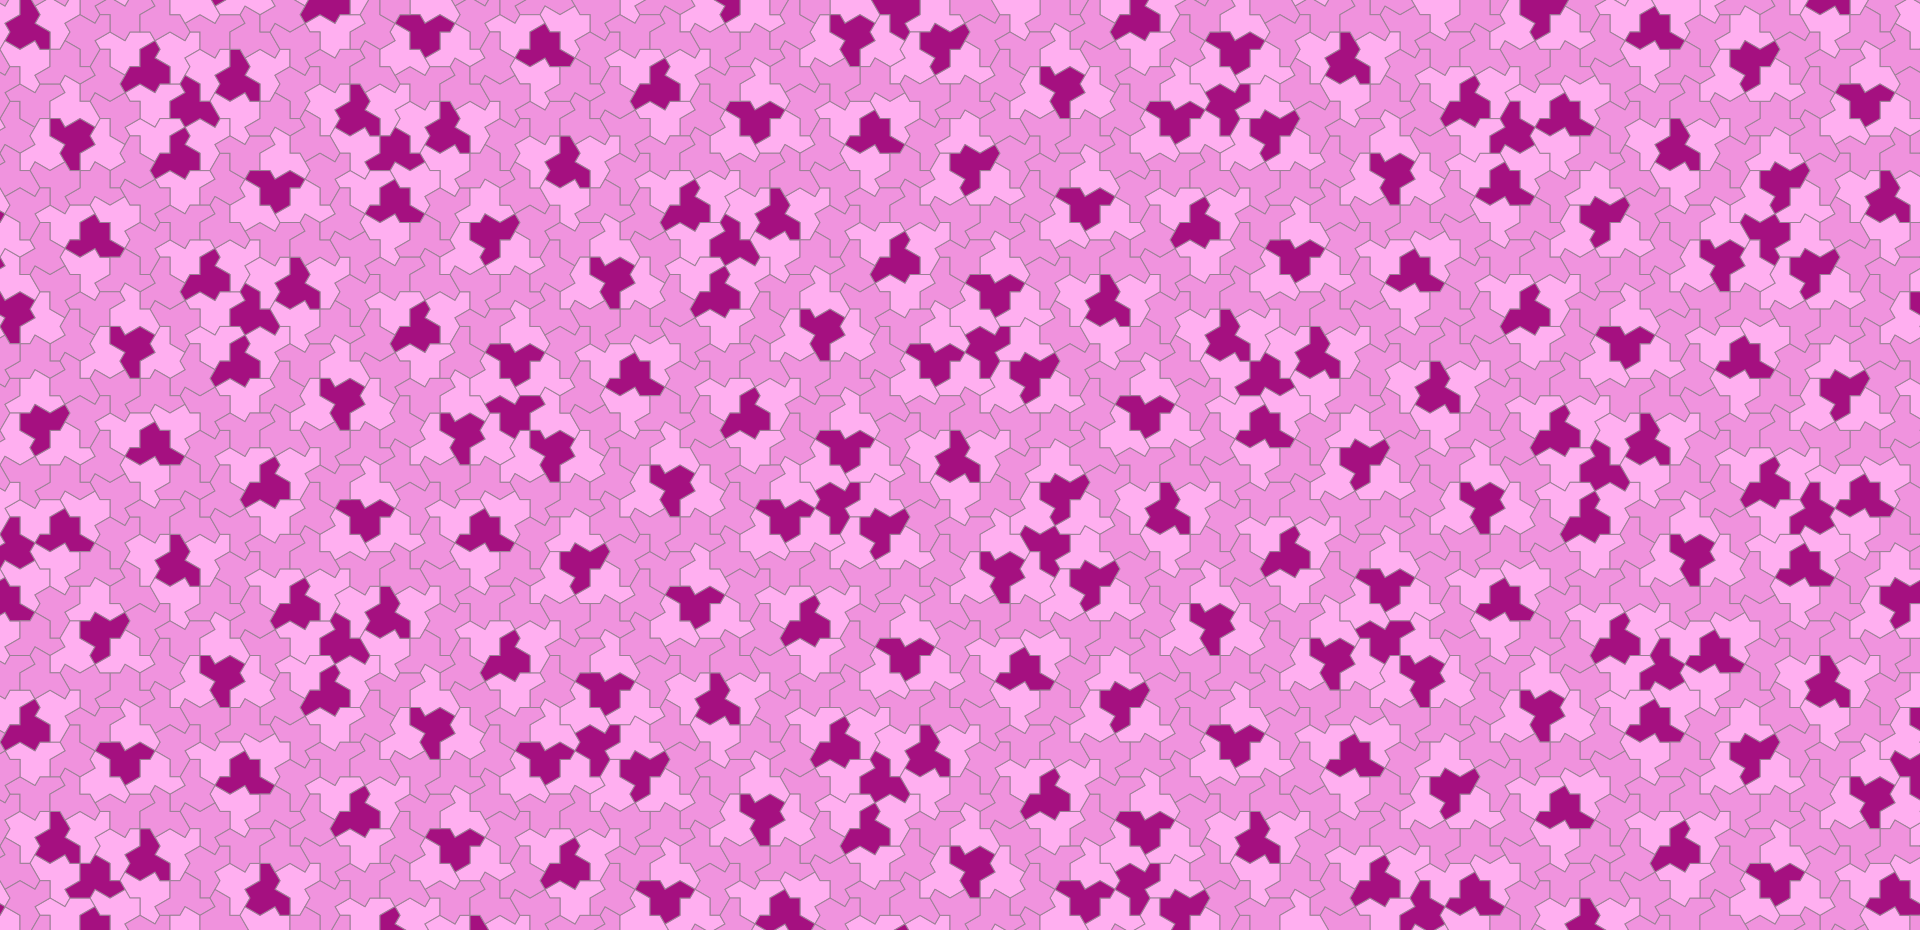
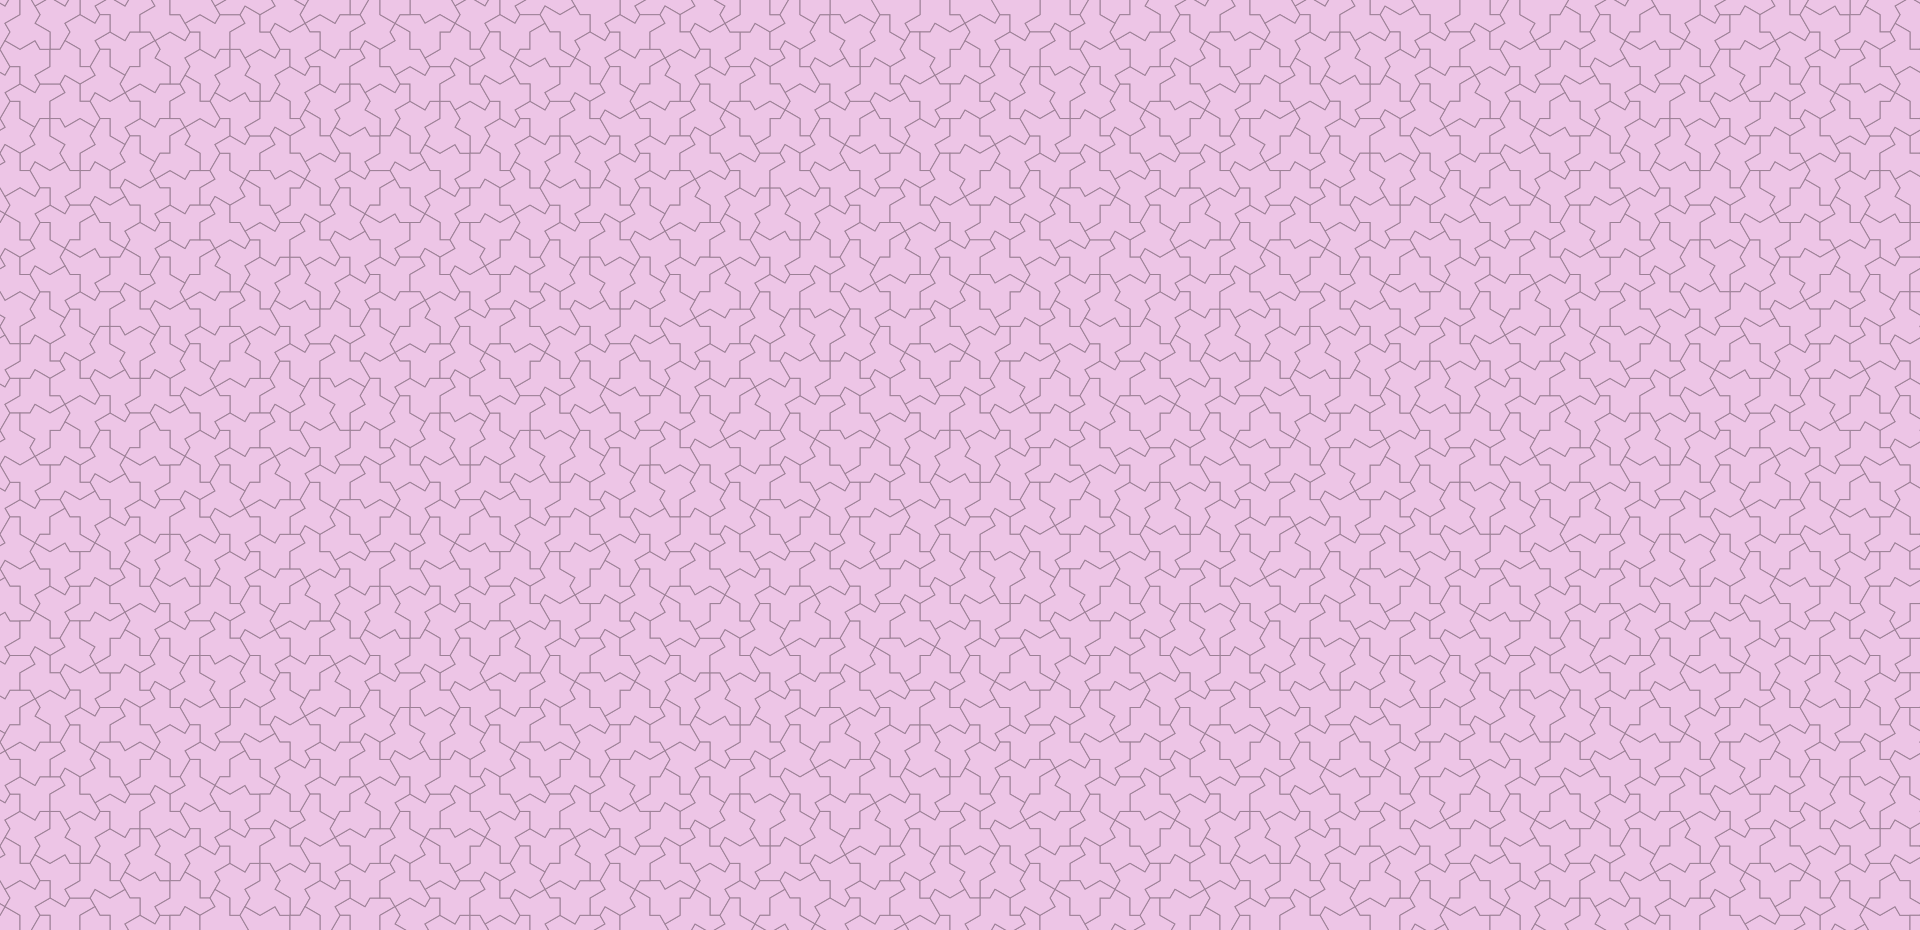
link to unicorns

diff --git a/src/App.js b/src/App.js
@@ -1,4 +1,4 @@
-import { Routes, Route } from "react-router-dom";
+import { Routes, Route, Link } from "react-router-dom";
 import { useParams } from 'react-router-dom';
 import { useState } from 'react';
 
@@ -16,7 +16,7 @@ if (!("TextDecoder" in window))
 
 
 
-function FunPage() {
+function UnicornsScreen() {
   return (
     <section id="fun-page">
     <h2>How It Works</h2>
@@ -25,6 +25,22 @@ function FunPage() {
     </p>
   </section>
   );
+}
+
+function LinkToUnicorns() {
+  return (
+    <div className="row py-4 justify-content-center">
+      <div className="col-12 col-lg-6">
+        <div className="card shadow">
+          <div className="card-body" style={{backgroundColor: "rgba(165, 16, 128, 0.75)"}}>
+            <a class="link-light icon-link icon-link-hover" href="#/unicrons">
+            Is it safe? Tell me how it works!
+            </a>
+          </div>
+        </div>
+      </div>
+    </div>
+  )
 }
 
 function SaveNoteScreen() {
@@ -111,12 +127,12 @@ function SaveNoteScreen() {
 
   return (
     <>
-      <div className="row py-5 justify-content-center">
+      <div className="row py-3 justify-content-center">
         <div className="col-4 col-lg-3">
           <img src="./img/pssst.png" style={{maxWidth: "100%", maxHeight: "100%", objectFit: "contain"}}></img>
         </div>
       </div>
-      <div className="row py-5 justify-content-center">
+      <div className="row py-4 justify-content-center">
         <div className="col-12 col-lg-6">
 
           <div className="card shadow">
@@ -127,7 +143,7 @@ function SaveNoteScreen() {
               </div>
               <div className="card-body">
                 <form id="password-entry">
-                  <textarea id="text-area" disabled={disabledTextArea} className="form-control card-text font-monospace" value={note} onChange={(event) => {setNote(event.target.value);}} rows="4" cols="20"></textarea>
+                  <textarea id="text-area" disabled={disabledTextArea} className="form-control card-text font-monospace" value={note} onChange={(event) => { setNote(event.target.value); }} rows="4" cols="20"></textarea>
                   <label htmlFor="expiration" className="card-text">Set the expiration of the secret note</label>
                   <input id="expiration" type="range" disabled={disabledTextArea} className="form-range" value={expiration} onChange={(event) => {setExpiration(event.target.value);}} min="0" max="24" step="0.25"></input>
                   <p className="small card-text"> Expiration set to {(expiration | 0)} hours and {(expiration - (expiration | 0)) * 60} minutes.</p>
@@ -153,9 +169,11 @@ function SaveNoteScreen() {
             }
 
           </div>
-
         </div>
       </div>
+
+      < LinkToUnicorns />
+
     </>
   );
 }
@@ -219,6 +237,7 @@ function DisplayNoteScreen() {
           <img src="./img/teskalabs-logo.svg" style={{maxWidth: "100%", maxHeight: "100%", objectFit: "contain"}}></img>
         </div>
       </div>
+
       <div className="row py-5 justify-content-center">
         <div className="col-12 col-lg-6">
 
@@ -226,33 +245,31 @@ function DisplayNoteScreen() {
             <button className="btn btn-primary btn-lg" type="button" onClick={revealSecret}>Reveal the secret</button>
           }
 
-
-            {note === null && showNote === true &&
-              <div className="card shadow">
-                <div className="card-header">
-                  <h2>Secret note was not found :(</h2>
-                </div>
-                <div className="card-body">
-                  <h5 className="card-title">Sorry, I cannot reveal the secret.</h5>
-                </div>
+          {note === null && showNote === true &&
+            <div className="card shadow">
+              <div className="card-header">
+                <h2>Secret note was not found :(</h2>
               </div>
-            }
-
-            {note != null && showNote === true &&
-              <div className="card">
-                <div className="card-header">
-                  <h2>Here is your super secret note!</h2>
-                </div>
-                <div class="card-body">
-                  <textarea id="text-area" disabled className="form-control card-text font-monospace" value={note} rows="4" cols="20"></textarea>
-                  <button className="btn btn-success" onClick={copySecretToClipboard}>Copy secret to clipboard</button>
-                </div>
+              <div className="card-body">
+                <h5 className="card-title">Sorry, I cannot reveal the secret.</h5>
               </div>
-            }
+            </div>
+          }
+
+          {note != null && showNote === true &&
+            <div className="card">
+              <div className="card-header">
+                <h2>Here is your super secret note!</h2>
+              </div>
+              <div class="card-body">
+                <textarea id="text-area" disabled className="form-control card-text font-monospace" value={note} rows="4" cols="20"></textarea>
+                <button className="btn btn-success" onClick={copySecretToClipboard}>Copy secret to clipboard</button>
+              </div>
+            </div>
+          }
 
         </div>
       </div>
-
     </>
   );
 }
@@ -262,6 +279,7 @@ function BagmanRouter() {
     <Routes>
       <Route index element={< SaveNoteScreen />} />
       <Route path="/:iv/:aes" element={<DisplayNoteScreen />} />
+      <Route path="/unicorns" element={<UnicornsScreen />} />
     </Routes>
   )
 }

diff --git a/src/scss/custom.scss b/src/scss/custom.scss
@@ -11,11 +11,12 @@
 //#FFAFF0 - light pink
 //#FCD021 - yellow
 //#104547 - green
+//#edc5e6 - background pink
 
 $primary: #FCD021;
 $secondary: #A51080;
 $green: #104547;
-$lightpink: #FFAFF0;
+$lightpink: #edc5e6;
 $form-range-thumb-bg: $secondary;
 $form-range-track-bg: $lightpink;
 
@@ -53,7 +54,7 @@ body {
   }
 
 .card {
-	background-color: rgba(var(--bs-body-bg-rgb), 0.9);
+	background-color: rgba(var(--bs-body-bg-rgb), 0.75);
 }
 
 // You can add more styles here...
